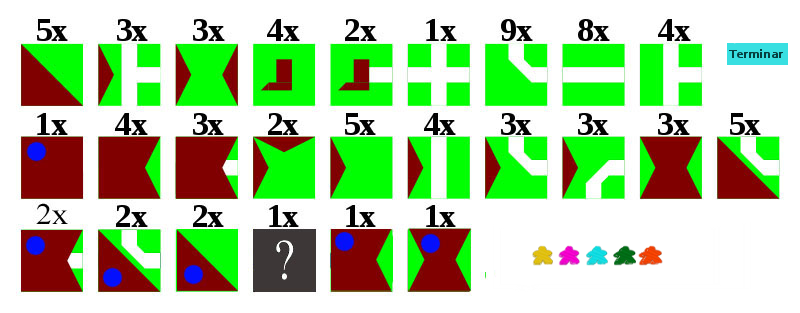
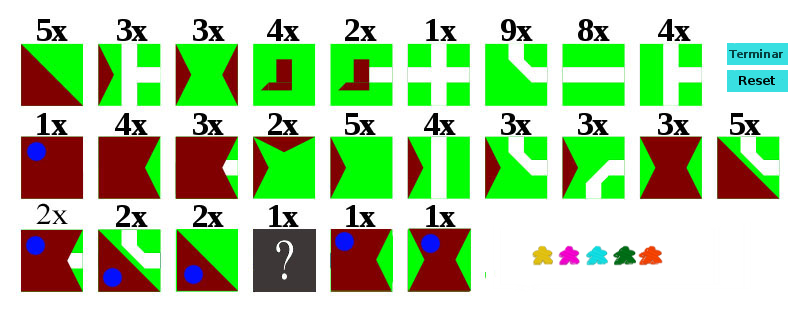
añadido boton para devolver la fichaactual y el seguidor sobre esta a su posicion inicial

Changed region(s): [[0.9062, 0.2013, 1.0, 0.3163]]

diff --git a/Plataforma_Juegos_ISI_13_14/client/SinNombre/game.js b/Plataforma_Juegos_ISI_13_14/client/SinNombre/game.js
@@ -64,7 +64,8 @@ sprites = {
 	s3: { sx: 586, sy: 245, w: 23, h: 23},			//seguidor azul
 	s4: { sx: 613, sy: 245, w: 23, h: 23},			//seguidor verde
 	s5: { sx: 639, sy: 245, w: 23, h: 23},		//seguidor naranja
-	terminar: {sx: 727, sy: 44,w: 58,h: 20}		//Boton de temirnar
+	terminar: {sx: 727, sy: 44,w: 58,h: 20},		//Boton de temirnar
+	reset: {sx: 727, sy: 70, w:58, h:20}		//Boton de reset
 };
 
 var ficha_inicial;
@@ -84,8 +85,7 @@ startGame = function() {
 
 
 playGame = function(){
-	Game.boards.length=0;
-	Game.setBoard(Game.boards.length, BotonAyuda);
+	Game.setBoard(0, BotonAyuda);
 	var jugadores = Partidas.findOne(Session.get("Current_Game")).jugadores;
 	var numjugadores = jugadores.length <= MAX_JUGADORES ? jugadores.length:MAX_JUGADORES;
 	var numseg;
@@ -108,6 +108,7 @@ playGame = function(){
 	
 	ficha_inicial = new Ficha(394, 263,"cmur");
 	Game.setBoard(Game.boards.length, ficha_inicial);
+	Game.setBoard(Game.boards.length, BotonReset);
 	Game.setBoard(Game.boards.length,Fondo);
 	ficha_inicial.buscar_huecos();
 	nfich = 1;
@@ -220,6 +221,27 @@ TitleScreen = function TitleScreen(title,subtitle,callback) {
 	}
 }
 
+BotonReset = new function() {
+	this.x = 940;
+	this.y = 120;
+	this.w = 58;
+	this.h = 20;
+	this.sprite = "reset";
+
+	this.mover = function(x,y) {	}
+	
+	this.soltar = function(x,y) {	}
+
+	this.pulsado = function() {
+		var sprite = FichaActual.sprite;
+		FichaActual.resetear();
+		FichaActual.sprite = sprite;
+	}
+
+	this.draw = function(ctx) {
+		SpriteSheet.draw(ctx,this.sprite,this.x, this.y);
+	}	
+}
 
 BotonFinTurno = new function() {
 	this.x = 940;
@@ -413,10 +435,10 @@ FichaActual = new function() {
 			this.sprite = 'ccmur2e'; //PEDIR A LA IA!!!, de momento ponemos una ficha cualquiera
 			return true;
 		}
-		if (this.x == this.inicialx && this.y == this.inicialy){
+		if (!this.seHaMovido()){
 			if (this.rotacion === 270)
 				this.rotacion = 0;
-			else	
+			else
 				this.rotacion+=90;
 		}
 		return false;
